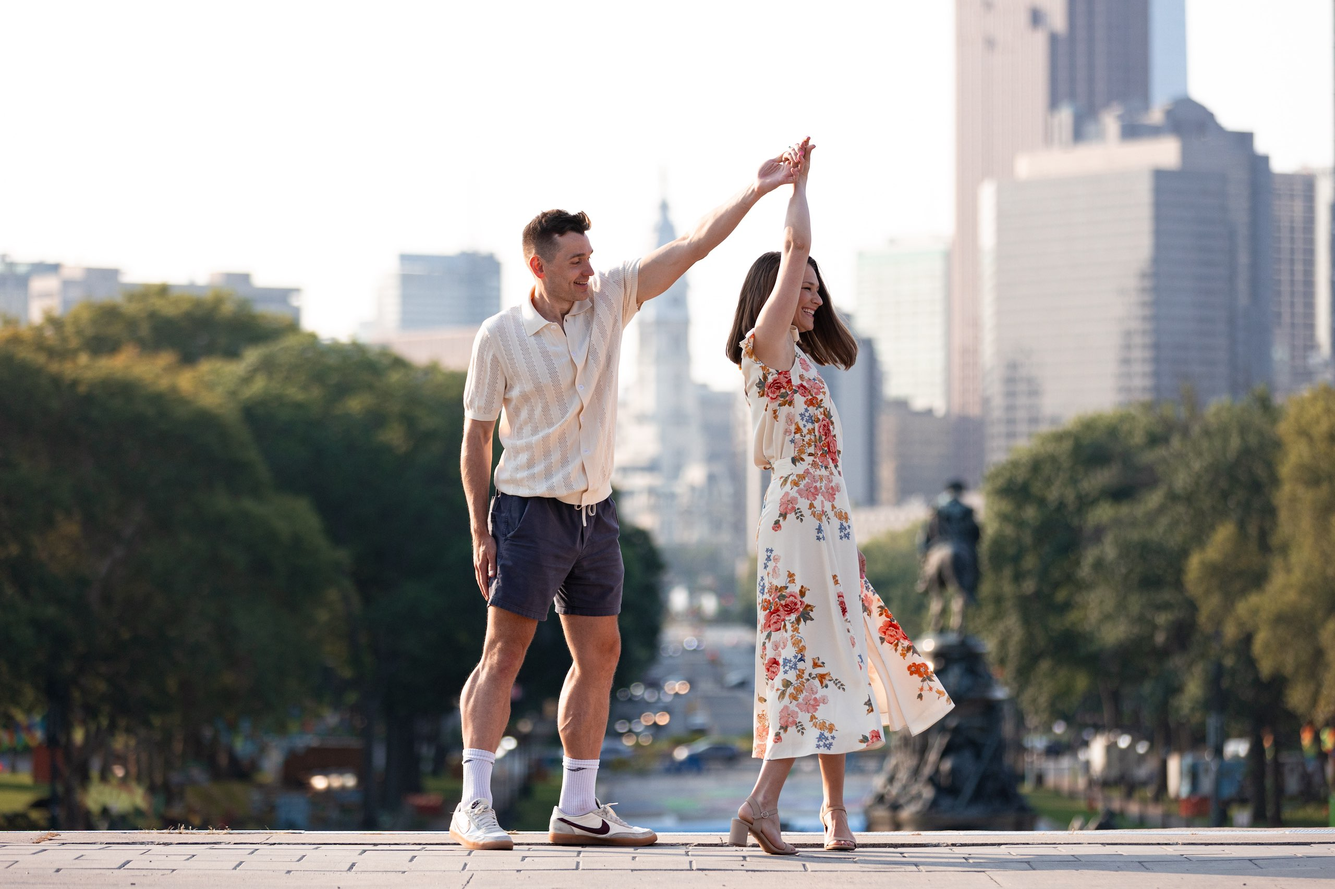
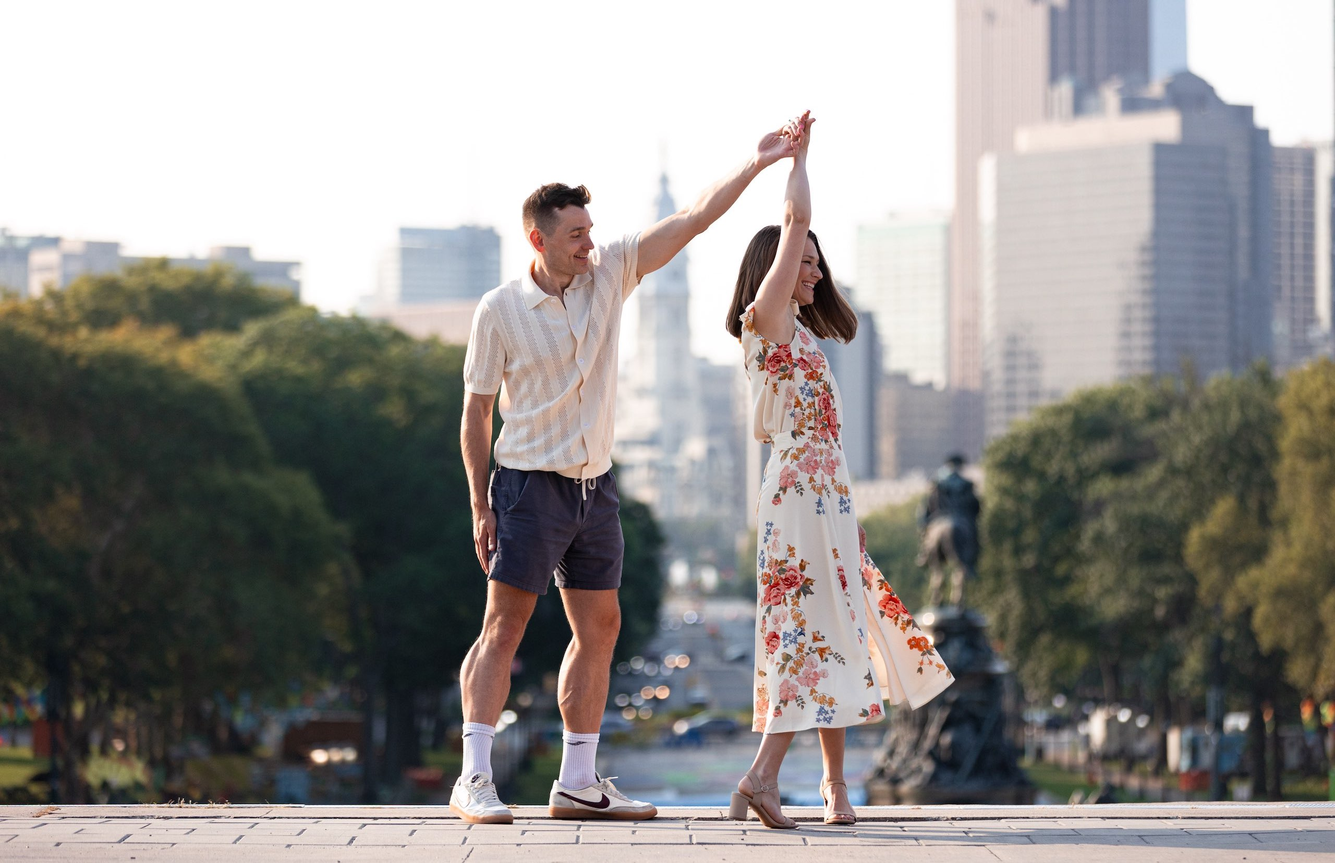
Trimming images and getting carousel working

diff --git a/js/main.js b/js/main.js
@@ -1,0 +1,98 @@
+// ===================================
+// Configuration
+// ===================================
+const HERO_IMAGES = ['hero-1.jpeg', 'hero-2.jpeg', 'hero-3.jpeg', 'hero-4.jpeg'];
+const CAROUSEL_INTERVAL_MS = 5000; 
+const FADE_DURATION_MS = 500; 
+
+// ===================================
+// Smooth Scroll
+// ===================================
+document.querySelectorAll('a[href^="#"]').forEach(anchor => {
+    anchor.addEventListener('click', function (e) {
+        e.preventDefault();
+        const target = document.querySelector(this.getAttribute('href'));
+        if (target) {
+            target.scrollIntoView({
+                behavior: 'smooth',
+                block: 'start'
+            });
+        }
+    });
+});
+
+// ===================================
+// Hero Image Carousel
+// ===================================
+(function() {
+    const hero = document.querySelector('.hero');
+    const dots = document.querySelectorAll('.carousel-dot');
+    let currentSlide = 0;
+    let autoPlayInterval;
+    let autoPlayEnabled = true;
+    let isTransitioning = false;
+
+    // Function to update the hero background image with crossfade effect
+    function updateSlide(index) {
+        if (isTransitioning) return;
+        if (index === currentSlide) return;
+
+        isTransitioning = true;
+        const newImageUrl = `url('images/${HERO_IMAGES[index]}')`;
+
+        // Set the new image on the ::before pseudo-element
+        const style = document.createElement('style');
+        style.textContent = `.hero::before { background-image: ${newImageUrl}; opacity: 1; }`;
+        document.head.appendChild(style);
+
+        // After the fade completes, swap images
+        setTimeout(() => {
+            currentSlide = index;
+            hero.style.backgroundImage = newImageUrl;
+
+            // Remove the style to reset ::before
+            document.head.removeChild(style);
+
+            // Update active dot
+            dots.forEach((dot, i) => {
+                if (i === currentSlide) {
+                    dot.classList.add('active');
+                } else {
+                    dot.classList.remove('active');
+                }
+            });
+
+            isTransitioning = false;
+        }, FADE_DURATION_MS);
+    }
+
+    // Function to go to next slide
+    function nextSlide() {
+        const next = (currentSlide + 1) % HERO_IMAGES.length;
+        updateSlide(next);
+    }
+
+    // Start auto-play
+    function startAutoPlay() {
+        if (autoPlayEnabled) {
+            autoPlayInterval = setInterval(nextSlide, CAROUSEL_INTERVAL_MS);
+        }
+    }
+
+    // Stop auto-play
+    function stopAutoPlay() {
+        clearInterval(autoPlayInterval);
+        autoPlayEnabled = false;
+    }
+
+    // Add click handlers to dots
+    dots.forEach((dot, index) => {
+        dot.addEventListener('click', () => {
+            stopAutoPlay();
+            updateSlide(index);
+        });
+    });
+
+    // Start the carousel
+    startAutoPlay();
+})();

diff --git a/styles.css b/styles.css
@@ -106,6 +106,21 @@ a {
     background-repeat: no-repeat;
 }
 
+.hero::before {
+    content: '';
+    position: absolute;
+    top: 0;
+    left: 0;
+    right: 0;
+    bottom: 0;
+    background-size: cover;
+    background-position: center;
+    background-repeat: no-repeat;
+    opacity: 0;
+    transition: opacity 0.5s ease-in-out;
+    z-index: 0;
+}
+
 .hero-overlay {
     position: absolute;
     top: 0;
@@ -155,6 +170,38 @@ a {
     font-weight: 300;
     letter-spacing: 1px;
     line-height: 1.8;
+}
+
+/* Carousel Indicators */
+.carousel-indicators {
+    position: absolute;
+    bottom: 3rem;
+    left: 50%;
+    transform: translateX(-50%);
+    display: flex;
+    gap: 1rem;
+    z-index: 2;
+}
+
+.carousel-dot {
+    width: 12px;
+    height: 12px;
+    border-radius: 50%;
+    background-color: rgba(255, 255, 255, 0.5);
+    border: 2px solid var(--white);
+    cursor: pointer;
+    transition: all 0.3s ease;
+    padding: 0;
+}
+
+.carousel-dot:hover {
+    background-color: rgba(255, 255, 255, 0.8);
+    transform: scale(1.2);
+}
+
+.carousel-dot.active {
+    background-color: var(--white);
+    transform: scale(1.2);
 }
 
 /* ===================================
@@ -261,6 +308,16 @@ a {
 
     .google-form {
         height: 700px;
+    }
+
+    .carousel-indicators {
+        bottom: 2rem;
+        gap: 0.8rem;
+    }
+
+    .carousel-dot {
+        width: 10px;
+        height: 10px;
     }
 }
 

diff --git a/index.html b/index.html
@@ -30,6 +30,12 @@
             <p class="hero-date">October 30, 2026</p>
             <p class="hero-location">The Bellevue Hotel<br>Philadelphia, PA</p>
         </div>
+        <div class="carousel-indicators">
+            <button class="carousel-dot active" data-slide="0"></button>
+            <button class="carousel-dot" data-slide="1"></button>
+            <button class="carousel-dot" data-slide="2"></button>
+            <button class="carousel-dot" data-slide="3"></button>
+        </div>
     </section>
 
     <!-- Address Collection Section (Placeholder) -->
@@ -55,5 +61,7 @@
     <footer class="footer">
         <p>&copy; 2025 Will & Christy | October 30, 2026</p>
     </footer>
+
+    <script src="js/main.js"></script>
 </body>
 </html>
